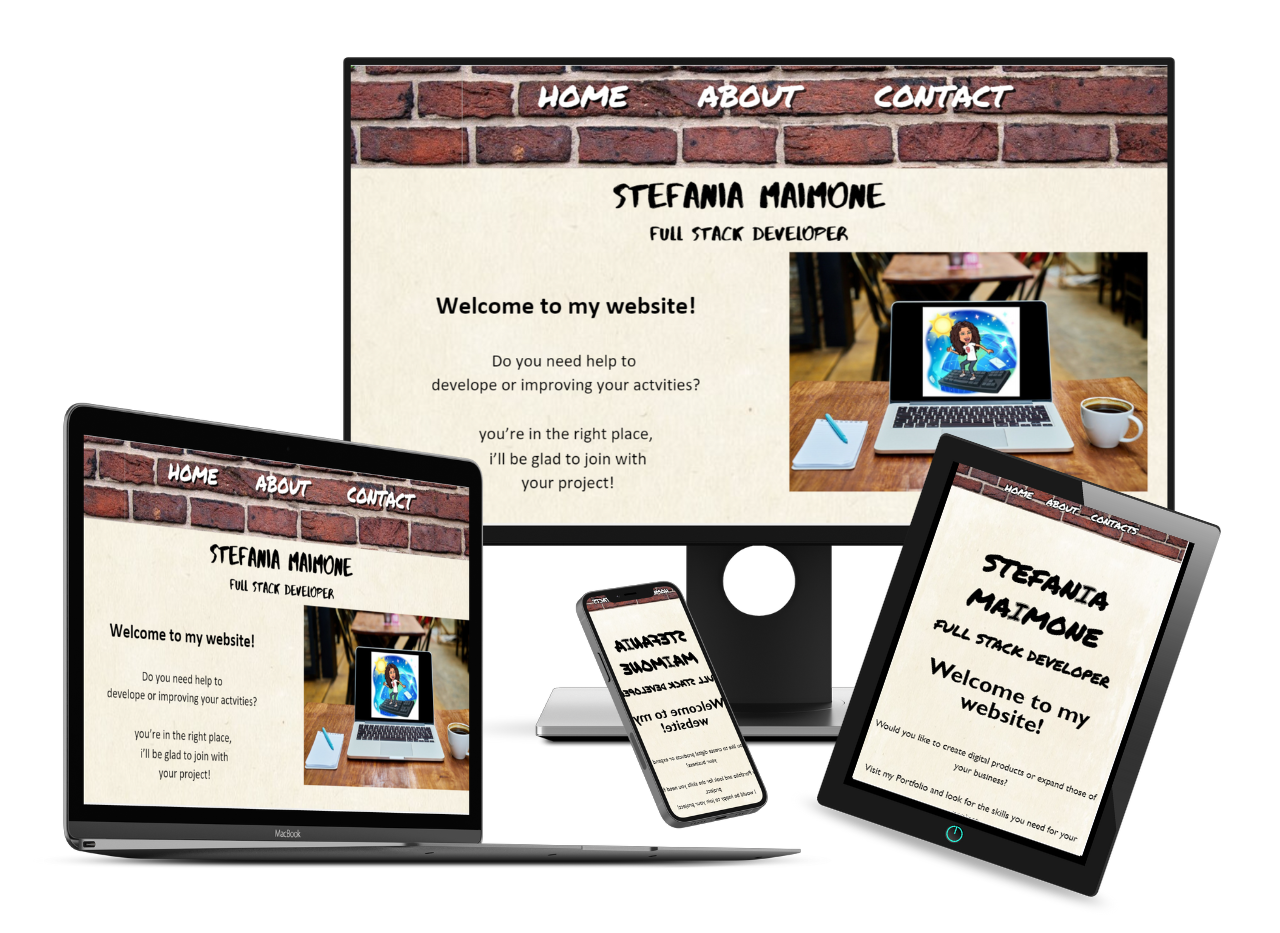
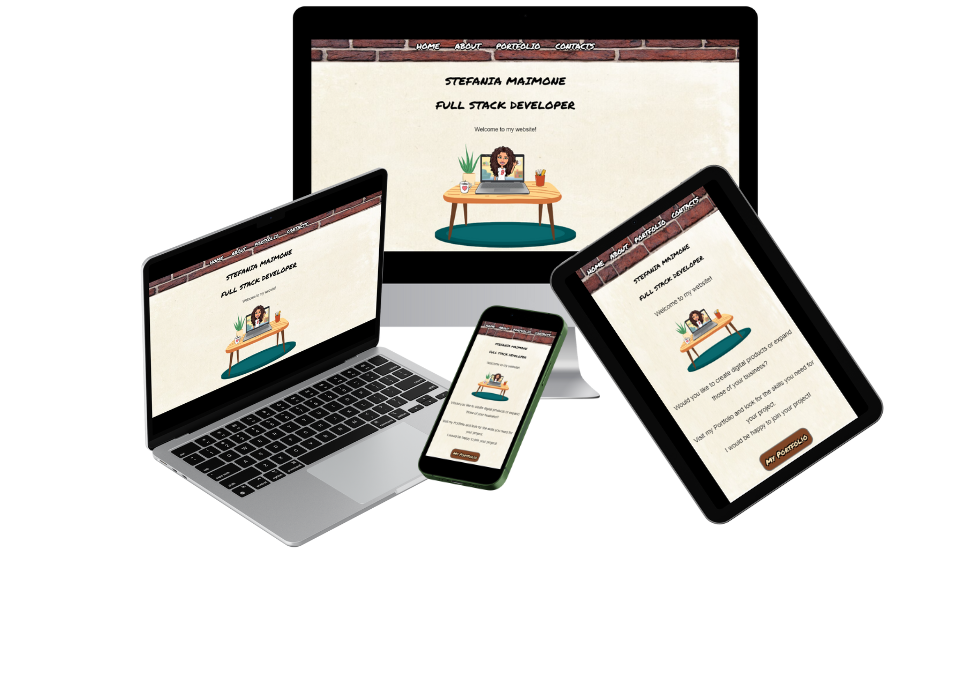
Add files via upload

diff --git a/index.html b/index.html
@@ -11,7 +11,7 @@
     Visit my Portfolio and look for the skills you need for your project. I would be happy to join your project!"/>
     <meta property="og:type" content="website" />
     <meta property="og:url" content="https://stefina11.github.io/stefania_maimone/" />
-    <meta property="og:image" content="https://opengraph.b-cdn.net/production/documents/d9147485-6e32-4892-9062-5ecb5b598219.png?token=4OxZG-UNHsdR8nkyOO2R9c89lvFLcQC02vn6TC3gBZ8&height=697&width=1161&expires=33240662150" />
+    <meta property="og:image" content="https://i.postimg.cc/mrzSYML1/preview.png" />
     <meta property="og:image:type" content="image/png">
     <meta property="og:image:width" content="1161" />    
     <meta property="og:image:height" content="697" />  
@@ -40,14 +40,14 @@
         </div>
 
           <div class='section-title'>
-            <h1 class="h1-title"> STEFANIA MAIMONE</h1> 
+            <h1 class="h2-title"> STEFANIA MAIMONE</h1> 
             <h2 class="h2-title">FULL STACK DEVELOPER</h2>
           </div>
 
           <div class="content">
             <div class='column-intro'>
               <h1 class="h1-ordinary-text"> Welcome to my website! </h1>
-              <img class="coffee" src='.\assets\img\coffee-circle.png'/>
+              <img class="coffee" src='.\assets\img\welcome desk.png'/>
                       <p class="p-ordinary-text"> Would you like to create digital products or expand those of your business? <br><br>
                           Visit my Portfolio and look for the skills you need for your project.<br>
                            I would be happy to join your project! 

diff --git a/assets/css/common-styles.css b/assets/css/common-styles.css
@@ -84,9 +84,6 @@
     margin-left: -140px;
  }
 
-
-
-
 /*------------img&photo-----------------*/
   .photos {
     margin-top: 40px;
@@ -192,7 +189,7 @@
     width: 30%;
   }
 
-  /*-----------------------------------desktop mood----------------------------------------------------------*/
+  /*-----------------------------------desktop breackpoint----------------------------------------------------------*/
 
 @media only screen and (min-width: 961px) { 
 
@@ -203,12 +200,9 @@
      }
 
 /*-----------titoli e nome----------*/
-.h1-title {
-  font-size: 30px;
-}
-
+s
 .h2-title {
-  font-size: 20px;
+  font-size: 30px;
 }
 
 .p-ordinary-text {
@@ -230,7 +224,7 @@ figcaption{
 }
        
      
-    }     
+}     
 
 
       

diff --git a/assets/css/portfolio-styles.css b/assets/css/portfolio-styles.css
@@ -24,7 +24,7 @@
 
 .photos {
    margin-top: 40px;
-   width: 50%;
+   width: 60%;
    margin-left: 25%;
    margin-right: 25%;
 }
